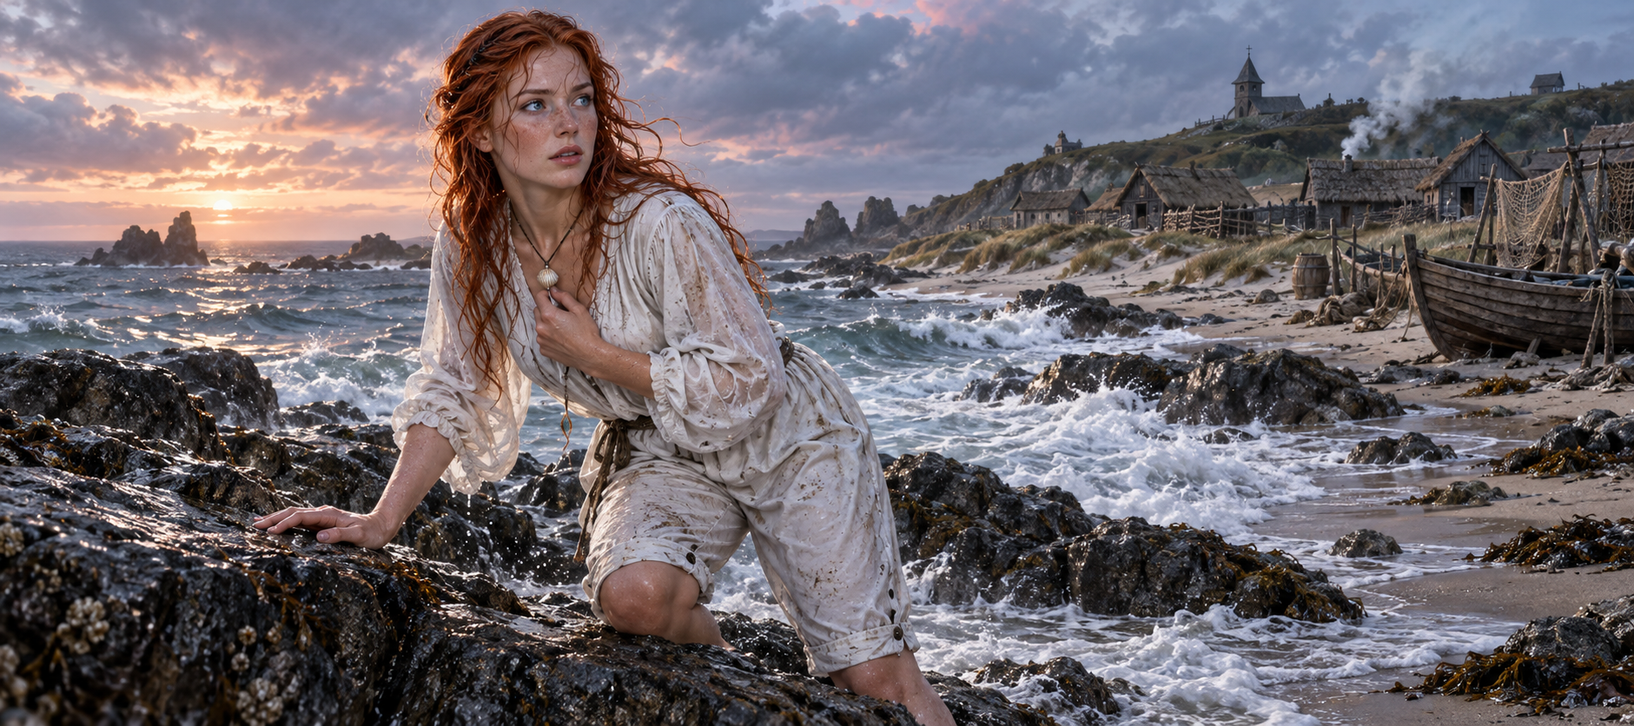
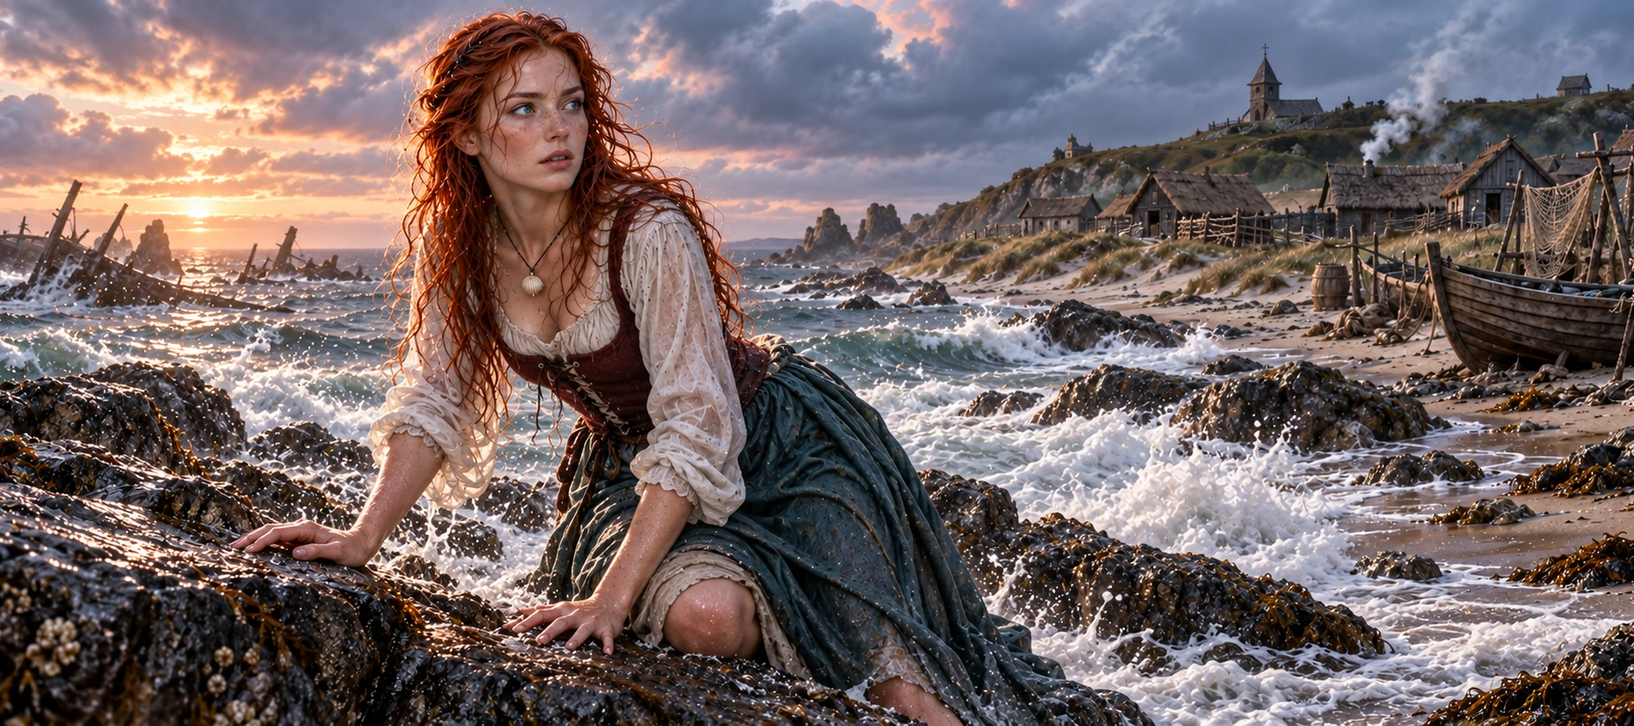
옛이야기 아가씨들 능력 조정 · 인어공주는 말을 익히기 전까지 몸짓으로만 · 이성 부하에게 선물하면 충성도 오른다 · 인어공주·백설공주 새 그림
- 인어공주: 음악·항해술·측량·운용술 3, 세공 1. 사람의 말을 하나도 모른다(언어 없음)
  · 한배 사람들에게서 어느 말이든 「기초」를 익히기 전까지(제독의 말 90일, js/systems/cabins.js) 대화창의 그녀 말은 모두 몸짓으로:
    「(두 손을 모아 가슴에 얹고, 당신을 향해 고개를 깊이 숙인다.)」 + 흐리게 「손짓으로 미루어 보면 — 「…」」 (G.Tale.mime — 고마움·사과·사랑·슬픔·거절·먹을 것·노래·바다·물음·놀람 몸짓 10가지 + 그 밖 5가지)
  · 처음 말을 익힌 날 알림: 「한배 사람들에게서 ○○어를 익혀 처음으로 말을 했다 — 「제…독…님.」」 (s.fairy.spoke) · 그 뒤로 수다에도 낀다
  · 설명·합류 장면·소문을 새 능력에 맞게 (요리 → 조개 하프와 춤, 말은 손짓 발짓으로)
- 백설공주: 요리·세공·음악·웅변·회계 3 (설명에 보석 다듬기·장부 셈·노래·말솜씨)
- 셰헤라자드: 웅변·회계·과학 3 (역사학 2·음악 1·그림 1은 그대로), 유럽·아시아의 말 모두 2~3
  (스페인·포르투갈·게르만 2, 로망스·슬라브·그리스 3 / 아랍·페르시아·힌두·위굴 3, 중국·동남아·동아시아·조선 2, 아프리카 3)
- 세 사람은 정해 준 능력 그대로 (skBoost — js/data/renown.js가 얹지 않게)
- 부하와 이야기 「선물한다」: 제독과 다른 성(이성) 부하면 충성이 선물 값만큼 오른다 (리본 +3 · 향수 +5 · 머리장식 +7 · 케이프 +8 · 진주 목걸이 +12,
  BALANCE.mateTalk.giftLoyal 0.6 · giftLoyalMin 3), 같은 성이면 예전처럼 +2. 여자 제독은 남자 부하에게도 선물할 수 있다. 충성·호감 오른 만큼 알림
- 그림: 인어공주(다리)·백설공주 얼굴상·무릎상과 합류 장면 그림을 마지막 판으로 (2026-10-18) — 얼굴 자리(portraitfaces) 다시 잼
- 시험: 새 fairytale_mermaid_gift_smoke 15건, legends_smoke(셰헤라자드 말 2~3), fairytales·banter·romance 통과, 콘솔 오류 0

Claude-Session: https://claude.ai/code/session_015rrc6RzdPZTKSNbraxgg81

diff --git a/js/systems/fairytales.js b/js/systems/fairytales.js
@@ -31,6 +31,50 @@
   function cool(id) { st().cool[id] = S().day + (K().coolDays || 45); }
   function who(id, emo) { return G.Legend && G.Legend.speaker ? G.Legend.speaker(id, emo) : { name: G.MATE[id].name, portrait: G.Art.mateSpec(id), half: G.Img.chain.mateHalf(id), lang: 3, special: true }; }
   T.speaker = who;
+
+  // ---------------------------------------------------------------- 인어공주의 몸짓 말
+  // 사람의 말을 하나도 모르고 배에 오른다(lg 없음). 한배 사람들에게서 어느 말이든 「기초」를 익히기 전까지(js/systems/cabins.js — 제독의 말은 90일)
+  // 그녀가 하는 말은 대화창에서 모두 몸짓으로 바뀐다 (ui.js speech → T.mime). 괄호로 쓴 줄은 이미 몸짓이라 그대로 둔다.
+  var MERMAID = 'little_mermaid';
+  /** 인어공주가 아직 말을 못 하는가 */
+  T.mute = function () {
+    var d = G.MATE[MERMAID], s = S(); if (!d || !s) return false;
+    if (st().spoke && st().spoke[MERMAID]) return false;         // 처음 말을 한 뒤로는 (혼인해 집에 있어도) 말을 한다
+    var m = row(MERMAID); if (!m) return true;
+    for (var li = 0; li < G.LANGS.length; li++) if (R.mateLang(m, li) >= 1) return false;
+    return true;
+  };
+  var GESTURE = [
+    [/고마|감사/, '두 손을 모아 가슴에 얹고, 당신을 향해 고개를 깊이 숙인다.'],
+    [/미안|죄송|잘못/, '어깨를 움츠리고 눈을 내리깐 채, 두 손을 모아 싹싹 비는 시늉을 한다.'],
+    [/사랑|좋아해|좋아요|곁에|함께/, '볼을 붉히며 당신의 손을 살며시 잡아 제 가슴께로 가져간다.'],
+    [/슬프|울|그리워|보고 싶|외로/, '눈시울이 붉어진 채 먼바다 쪽을 오래 바라보다가, 제 가슴을 가만히 누른다.'],
+    [/싫|안 돼|안돼|아니|그만/, '입술을 꼭 다물고 고개를 세차게 젓는다. 두 팔로 X 자를 그려 보인다.'],
+    [/먹|배고|요리|맛|술|잔/, '배를 문지르고, 무언가를 입에 넣는 시늉을 하며 눈을 동그랗게 뜬다.'],
+    [/노래|음악|춤|하프|악기/, '입술을 달싹이다 소리가 나지 않자, 대신 손끝으로 박자를 짚으며 빙그르르 돈다.'],
+    [/바다|파도|바람|배|돛|물살|키|항구|섬/, '바다 쪽을 가리키고, 손바닥을 물결처럼 너울너울 흔들어 보인다.'],
+    [/\?/, '고개를 갸웃하며 당신 얼굴을 빤히 들여다본다.'],
+    [/!/, '눈을 반짝이며 손뼉을 치고 발끝으로 콩콩 뛴다.']
+  ];
+  var GESTURE_ANY = ['당신을 바라보며 말없이 고개를 끄덕인다.', '입술을 달싹이다 소리가 나지 않자, 손짓 발짓으로 무언가를 열심히 그려 보인다.',
+    '당신의 소매를 살짝 잡아당기고는 방긋 웃는다.', '손가락으로 허공에 무언가를 그리며 몇 번이고 고개를 끄덕인다.', '제 목을 가리키고 미안한 듯 웃더니, 두 손으로 뜻을 그려 보인다.'];
+  /** 대화창에 그녀의 말이 나오려 할 때: 아직 말을 못 하면 몸짓(과 손짓으로 짐작한 뜻)을 HTML로 돌려준다. 다른 사람이면 null */
+  T.mime = function (raw, opts) {
+    var d = G.MATE[MERMAID]; if (!d || !opts || !(opts.name === d.name || opts.mateId === MERMAID)) return null;
+    var t = String(raw == null ? '' : raw).replace(/<[^>]+>/g, '').trim();
+    if (!t || /^[(（]/.test(t) || !T.mute()) return null;
+    var g = null; for (var i = 0; i < GESTURE.length && !g; i++) if (GESTURE[i][0].test(t)) g = GESTURE[i][1];
+    if (!g) g = GESTURE_ANY[Math.abs(U.strHash(t)) % GESTURE_ANY.length];
+    var gist = (t.match(/^[^.!?…。]*[.!?…。]?/) || [t])[0].trim(); if (gist.length > 40) gist = gist.slice(0, 38) + '…';
+    return '<span class="mime">(' + U.esc(g) + ')</span><span class="mime-gist">손짓으로 미루어 보면 — 「' + U.esc(gist) + '」</span>';
+  };
+  /** 한배 사람들에게서 처음으로 말을 익힌 날 (cabins.js가 그 말을 익히기 직전에 부른다) — 알림 하나, 다른 때는 null */
+  T.firstWords = function (m, li) {
+    if (!m || m.id !== MERMAID || !T.mute()) return null;
+    var F = st(); F.spoke = F.spoke || {}; F.spoke[MERMAID] = U.dateNum(S().date);
+    var nm = G.MATE[MERMAID].name;
+    return { icon: 'heart', text: nm + U.j(nm, '이/가').slice(nm.length) + ' 한배 사람들에게서 ' + G.LANGS[li] + '를 익혀 처음으로 말을 했다 — 「제…독…님.」 이제 손짓 대신 말로 이야기를 나눌 수 있다.' };
+  };
   function me() { var p = S().player; return { name: p.name, portrait: p.portrait, rigId: 'player' }; }
   function say(id, text, emo) { return UI.say(text, who(id, emo)); }
   function narrate(text) { return UI.say(text, {}); }
@@ -187,7 +231,7 @@
         cool(id); return false;
       }
       await T.join(id);
-      await narrate('배에 오르자 그녀의 걸음이 거짓말처럼 가벼워진다. 출렁이는 갑판 위가 뭍보다 편한 모양이다. 그날 저녁, 그녀가 말없이 차린 생선 요리에 선원들이 혀를 내둘렀다.');
+      await narrate('배에 오르자 그녀의 걸음이 거짓말처럼 가벼워진다. 출렁이는 갑판 위가 뭍보다 편한 모양이다. 그날 저녁, 그녀가 말없이 조개 하프를 뜯으며 갑판 위에서 춤을 추자 선원들이 숨을 죽였다. 사람의 말은 한마디도 모르는 모양이라, 무엇이든 손짓과 몸짓으로 전한다.');
       await say(id, '(활짝 웃으며 키를 가리킨다. 바람이 바뀌는 쪽을 먼저 알아채는 눈치다.)', 'happy');
       return true;
     } finally { if (pc) await pc.stop(); }
@@ -229,7 +273,7 @@
     if (o === '프랑스' && T.ready('cinderella')) await hint('cin', '요즘 이 근처 숲에 재투성이 아가씨가 깨진 유리 구두를 들고 앉아 운다더군. 유리를 다룰 줄 아는 사람을 찾는다나. 유리야 시장에서 팔지만, 그걸 구두로 만드는 솜씨가 문제지.');
     else if (o === '프랑스' && T.ready('snow_white')) await hint('snow', '숲에 들어갈 거면 조심하게. 왕비의 사냥꾼이 웬 아가씨를 쫓아다닌다더군. 그 아가씨는 일곱 사내가 사는 오두막을 찾는다던데… 사내 일곱이 함께 다니는 무리라면 반가워할지도.');
     if (GERMAN[o] && T.ready('sleeping_beauty')) await hint('beauty', '이 고장 숲 깊은 곳에 가시덤불로 뒤덮인 탑이 있다네. 용을 본 사람 앞에서만 덤불이 길을 연다는 옛말이 있지. 그 안에 잠든 공주가 다쳐 있다는데, 의원 없이 가 봐야 소용없다더군.');
-    if (o === '덴마크' && T.ready('little_mermaid')) await hint('mermaid', '섬에서 사냥하다 보면 물가에서 걸음마 하듯 걷는 아가씨를 본다는 사람들이 있어. 말은 한마디도 못 하는데, 바다 일은 늙은 뱃사람보다 잘 안다더군.');
+    if (o === '덴마크' && T.ready('little_mermaid')) await hint('mermaid', '섬에서 사냥하다 보면 물가에서 걸음마 하듯 걷는 아가씨를 본다는 사람들이 있어. 말은 한마디도 못 해서 손짓 발짓으로만 뜻을 전하는데, 바다 일은 늙은 뱃사람보다 잘 안다더군.');
   };
   T.install = function () {
     var CC = G.Scenes && G.Scenes.city, B = CC && CC.B; if (!B || !B.tavern || T._inst) return;

diff --git a/tests/fairytale_mermaid_gift_smoke.js b/tests/fairytale_mermaid_gift_smoke.js
@@ -1,0 +1,71 @@
+/* 인어공주의 몸짓 말 · 처음 말을 익힌 날 · 옛이야기 아가씨들 능력 · 이성 부하 선물 = 충성 — node tests/fairytale_mermaid_gift_smoke.js */
+const path = require('path');
+const { pathToFileURL } = require('url');
+const { chromium } = require('playwright');
+const ROOT = path.resolve(__dirname, '..');
+
+(async () => {
+  const browser = await chromium.launch({ executablePath: process.env.BROWSER_EXE || undefined, args: ['--use-gl=swiftshader', '--no-sandbox', '--enable-unsafe-swiftshader', '--allow-file-access-from-files'] });
+  const page = await browser.newPage({ viewport: { width: 1280, height: 720 } });
+  const errors = [];
+  page.on('pageerror', e => errors.push('PAGEERR ' + e.message));
+  page.on('console', m => { if (m.type() === 'error' && !/Failed to load|net::|fonts|ERR_FILE/.test(m.text())) errors.push('CONSOLE ' + m.text()); });
+  await page.goto(pathToFileURL(path.join(ROOT, 'index.html')).href);
+  await page.waitForFunction(() => window.G && G.Game && G.Tale && G.MateTalk && G.Cabins, null, { timeout: 90000 });
+  const out = await page.evaluate(async () => {
+    const rows = []; const ok = (v, s) => rows.push((v ? '✓ ' : '✗ ') + s);
+    const sleep = (ms) => new Promise(r => setTimeout(r, ms));
+    G.State.newGame({ name: '선물 시험', nation: 'PT', job: 'explorer', age: 24, birth: { m: 1, d: 1 }, st: { str: 60, int: 62, mar: 58, cha: 64 }, sk: {}, lg: [], diff: 'normal' });
+    const s = G.Game.state, R = G.R, MM = G.MATE.little_mermaid, SW = G.MATE.snow_white, SH = G.MATE.scheherazade;
+    // 능력
+    rows.push('  능력 ' + ['MM','SW','SH'].map(k => JSON.stringify({MM,SW,SH}[k].sk)).join(' / '));
+    ok(MM.sk.music === 3 && MM.sk.nav === 3 && MM.sk.survey === 3 && MM.sk.ops === 3 && MM.sk.craft === 1 && !(MM.sk.cook > 0) && !Object.keys(MM.lg).some(k => MM.lg[k] > 0), '인어공주: 음악·항해·측량·운용 3, 세공 1, 말 없음');
+    ok(['cook', 'craft', 'music', 'speech', 'acct'].every(k => SW.sk[k] === 3), '백설공주: 요리·세공·음악·웅변·회계 3');
+    const eu = [0, 1, 2, 3, 4], as = [5, 6, 7, 8, 9, 12, 13, 14];
+    ok(eu.concat(as).every(i => SH.lg[i] >= 2 && SH.lg[i] <= 3) && ['speech', 'acct', 'sci'].every(k => SH.sk[k] === 3), '셰헤라자드: 유럽·아시아 말 모두 2~3, 웅변·회계·과학 3');
+    // 몸짓 말
+    const m = G.Legend.join('little_mermaid', null);
+    ok(!!m && G.Tale.mute(), '인어공주가 배에 올랐고 아직 말을 못 한다');
+    const say = async (text, who) => { const p = G.UI.say(text, who); await sleep(80); const b = document.querySelector('.dlg .body'); const r = { html: b ? b.innerHTML : '', text: b ? b.innerText : '' }; document.querySelector('.modal-back').click(); await sleep(260); document.querySelector('.modal-back') && document.querySelector('.modal-back').click(); await p; return r; };
+    const r1 = await say('고마워요, 제독! 정말 기뻐요.', G.Tale.speaker('little_mermaid'));
+    ok(/class="mime"/.test(r1.html) && /두 손을 모아/.test(r1.text) && /손짓으로 미루어 보면/.test(r1.text), '말을 못 하면 대사가 몸짓으로: ' + r1.text.replace(/\n/g, ' / '));
+    const r2 = await say('또 무슨 이야기를 할까요?', G.Scenes.mateSpeaker(m.role));   // 이름만 있는 화자(부하와 이야기 등)
+    ok(/갸웃/.test(r2.text), '부하 화자로 물어도 몸짓 (' + r2.text.replace(/\n/g, ' / ') + ')');
+    const r3 = await say('(바다를 가리키고 웃는다.)', G.Tale.speaker('little_mermaid'));
+    ok(!/mime/.test(r3.html) && /바다를 가리키고/.test(r3.text), '이미 몸짓으로 쓴 줄은 그대로');
+    const r4 = await say('고마워요.', G.Tale.speaker('snow_white'));
+    ok(!/mime/.test(r4.html), '다른 사람의 말은 그대로');
+    // 한배 사람들에게서 말을 익힌다 (제독의 말 90일)
+    let first = null, days = 0;
+    for (; days < 120 && G.Tale.mute(); days++) { const o = G.Cabins.daily(); const f = o.find(x => /처음으로 말을/.test(x.text)); if (f) first = f.text; }
+    ok(!!first && !G.Tale.mute() && days >= 85 && days <= 95, days + '일 만에 처음 말을 했다: ' + first);
+    const r5 = await say('고마워요, 제독!', G.Tale.speaker('little_mermaid'));
+    ok(!/mime/.test(r5.html) && /고마워요, 제독/.test(r5.text), '말을 익힌 뒤에는 말로');
+    // 선물: 이성 부하는 충성이 선물 값만큼
+    const gift = async (mate, itemId) => {
+      s.player.items.push({ id: itemId });
+      const seq = ['gift', null]; const ask0 = G.UI.ask, ch0 = G.UI.choose, say0 = G.UI.say;
+      let shown = null;
+      G.UI.ask = async (t, opts) => { if (shown == null) shown = opts.map(o => o && o.label).filter(Boolean); const v = seq.length ? seq.shift() : null; return v === 'gift' && shown.indexOf('선물한다') < 0 ? null : v; };
+      G.UI.choose = async () => 0; G.UI.say = async () => {};
+      const lo0 = mate.loyal; try { await G.MateTalk.talk(G.CITY_DATA[0], mate); } finally { G.UI.ask = ask0; G.UI.choose = ch0; G.UI.say = say0; }
+      return { d: mate.loyal - lo0, shown };
+    };
+    m.loyal = 60; const g1 = await gift(m, 'perfume');
+    ok(g1.d === 5, '남자 제독 → 여성 부하에게 향수: 충성 +' + g1.d + ' (예전 +2)');
+    const male = G.MATES.find(x => x.g !== 'f' && x.fame >= 0 && !s.mates.some(y => y.id === x.id));
+    const mm = G.Legend.join(male.id, null); mm.loyal = 60;
+    const g2 = await gift(mm, 'pearlnk');
+    ok(g2.d === 0 && g2.shown.indexOf('선물한다') < 0, '남자 제독 → 남자 부하: 선물 고르는 줄 없음');
+    s.player.g = 'f'; s.player.items = s.player.items.filter(it => it.id !== 'pearlnk');
+    const g3 = await gift(mm, 'pearlnk');
+    ok(g3.d === 12 && g3.shown.indexOf('선물한다') >= 0, '여자 제독 → 남자 부하(' + male.name + ')에게 진주 목걸이: 충성 +' + g3.d);
+    m.loyal = 60; const g4 = await gift(m, 'ribbon');
+    ok(g4.d === 2, '여자 제독 → 여성 부하(같은 성): 예전처럼 +2');
+    return rows;
+  });
+  console.log(out.join('\n'));
+  console.log(errors.slice(0, 8).join('\n') || '✓ 콘솔 오류 없음');
+  await browser.close();
+  process.exitCode = out.some(x => x[0] === '✗') || errors.length ? 1 : 0;
+})().catch(e => { console.error(e); process.exit(1); });

diff --git a/js/data/fairytales.js b/js/data/fairytales.js
@@ -2,7 +2,8 @@
    · 신데렐라: 유리를 싣고, 세공에 밝은 사람(제독이나 부하)을 데리고 프랑스 도시 근처 숲을 돌아다니면 만난다 — 유리 한 통으로 유리 구두를 지어 주면 합류
    · 백설공주: 부하가 남자만 꼭 여섯 명일 때(제독까지 일곱) 프랑스 도시 근처 숲을 돌아다니면 사냥꾼에게 쫓기는 그녀를 만난다 — 일기토로 구하면 합류
    · 잠자는 숲속의 공주: 의학에 밝은 사람이 있고 용·드래곤을 찾은 뒤 독일 숲에서 야영하면 — 깨우고, 물레 가락에 찔린 상처를 치료하면 「운명」이라며 합류
-   · 인어공주: 덴마크의 섬에 상륙해 사냥하면 걸음이 서툰 그녀를 만난다 — 말을 못 하지만 항해·측량·요리에 밝다. 돌보기로 하면 합류
+   · 인어공주: 덴마크의 섬에 상륙해 사냥하면 걸음이 서툰 그녀를 만난다 — 음악·항해·측량·운용에 밝고 세공을 조금 한다. 돌보기로 하면 합류
+     사람의 말을 하나도 모른다(lg 없음): 한배 사람들에게서 말을 익히기 전에는(js/systems/cabins.js) 하는 말이 모두 몸짓으로 나온다 (G.Tale.mime)
    네 사람 모두 품삯을 받지 않는다(wage 0). 넷을 모두 들이면 업적 「Once Upon a Time」, 넷 모두와 혼인하면 「Happily Ever After」.
    그림: images/portraits/legendary/<그림>.webp (흉상) · _half.webp (무릎상) — Codex. 인어공주는 다리가 생긴 모습(little_mermaid_legs). */
 (function (G) {
@@ -12,14 +13,14 @@
       st: [46, 68, 40, 92], sk: { cook: 2, ops: 2, music: 1 }, lg: { 2: 3, 3: 1 },
       desc: '재투성이라 불리며 새어머니와 언니들의 집안일을 도맡던 아가씨. 부엌일과 살림에 빈틈이 없고, 누구에게도 모진 말을 하지 않는다. 무도회 옷을 입은 채 숲에서 만난 그날의 유리 구두 한 켤레를 소중히 간직한다.' },
     { id: 'snow_white', name: '백설공주', g: 'f', style: 'ne', role: 'noble', tone: 'cute', pic: 'snow_white',
-      st: [42, 70, 38, 95], sk: { cook: 2, med: 1, sci: 1 }, lg: { 3: 3, 2: 2 },
-      desc: '눈처럼 흰 살결과 흑단 같은 머리의 공주. 새어머니의 사냥꾼에게 쫓겨 숲으로 달아났다. 일곱 사내와 한 지붕 아래 사는 데 익숙해, 사내들 틈에서도 금세 살림을 쥐고 모두를 부린다.' },
+      st: [42, 70, 38, 95], sk: { cook: 3, craft: 3, music: 3, speech: 3, acct: 3 }, skBoost: 1, lg: { 3: 3, 2: 2 },
+      desc: '눈처럼 흰 살결과 흑단 같은 머리의 공주. 새어머니의 사냥꾼에게 쫓겨 숲으로 달아났다. 일곱 사내와 한 지붕 아래 사는 데 익숙해, 사내들 틈에서도 금세 살림을 쥐고 야무진 말솜씨로 모두를 부린다. 광부 일곱의 오두막에서 보석 다듬는 법과 장부 셈을 배웠고, 숲의 새들과 함께 부르는 노래는 사나운 뱃사람도 잠잠하게 한다.' },
     { id: 'sleeping_beauty', name: '잠자는 숲속의 공주', short: '들장미 공주', g: 'f', style: 'ne', role: 'noble', tone: 'plain', pic: 'sleeping_beauty',
       st: [40, 76, 36, 94], sk: { music: 2, art: 2, hist: 1 }, lg: { 3: 3, 2: 3, 0: 1 },
       desc: '물레 가락에 찔려 백 년을 잠들었다는 숲속 성의 공주. 깨어난 세상은 그녀가 알던 세상보다 백 년쯤 늙어 있었다. 요정들의 축복으로 노래와 그림에 뛰어나고, 옛 왕가의 일을 누구보다 잘 안다.' },
     { id: 'little_mermaid', name: '인어공주', g: 'f', style: 'ne', role: 'maid', tone: 'cute', pic: 'little_mermaid_legs', mute: true,
-      st: [50, 72, 44, 96], sk: { nav: 3, survey: 2, cook: 2 }, lg: {},
-      desc: '바다 마녀에게 목소리를 주고 다리를 얻은 바다 왕의 막내딸. 말을 하지 못하고 뭍의 걸음은 아직 서툴지만, 물살과 바람과 바닷속 지형은 누구보다 잘 안다. 바다 것으로 차린 요리 솜씨도 일품이다.' }
+      st: [50, 72, 44, 96], sk: { music: 3, nav: 3, survey: 3, ops: 3, craft: 1 }, skBoost: 1, lg: {},
+      desc: '바다 마녀에게 목소리를 주고 다리를 얻은 바다 왕의 막내딸. 말을 하지 못하고 뭍의 걸음은 아직 서툴지만, 물살과 바람과 바닷속 지형은 누구보다 잘 알고, 밧줄과 돛을 다루는 손이 빠르다. 목소리는 잃었어도 조개 하프를 뜯고 춤을 추면 선원들이 넋을 잃고, 산호와 조개로 작은 장신구를 엮는다. 사람의 말은 한마디도 모른다 — 한배 사람들에게서 말을 배우기 전까지는 손짓과 몸짓으로만 뜻을 전한다.' }
   ];
   G.FAIRY = L.map(function (m) { return m.id; });
   L.forEach(function (m) {

diff --git a/js/city/matetalk.js b/js/city/matetalk.js
@@ -1,6 +1,6 @@
 /* 부하와 이야기 — 술집·여관의 「부하와 이야기」 (G.MateTalk)
    · 데리고 다니는 부하 한 사람과 마주 앉는다: 요즘 이야기(하루 한 번 충성↑), 살아온 이야기(실존 인물은 인물 이야기, 철새는 제 이야기),
-     한잔 사기(하루 한 번), 여성 부하에게는 선물과 청혼, 마녀에게는 점괘.
+     한잔 사기(하루 한 번), 이성 부하에게는 선물(충성이 선물 값만큼 오른다 — BALANCE.mateTalk.giftLoyal), 여성 부하에게는 청혼, 마녀에게는 점괘.
    · 여성 부하의 호감: s.mates[i].aff (0~100). 호감이 BALANCE.mateTalk.wedAff 이상이고 약속 반지가 있으면 청혼할 수 있다.
      결혼하면 부하에서 물러나 고향 자택에서 기다린다 (s.player.wife = 그 항해사 ID — family.js가 여급과 똑같이 다룬다). */
 (function (G) {
@@ -90,7 +90,9 @@
       var opts = [{ label: '요즘 어떤가', value: 'chat' }, { label: '살아온 이야기', value: 'life' }, { label: '한잔 산다', value: 'drink' }];
       if (d.witch) opts.push({ label: '점괘를 본다', value: 'fortune' });
       var w2 = G.Wives && G.Wives.of(d.id);     // 둘째 부인으로 함께 다니는 사람 (js/systems/wives.js)
-      if (f) opts.push({ label: '선물한다', value: 'gift' }, w2 ? { label: '집으로 보낸다', value: 'w2home' } : { label: '청혼한다', value: 'wed', dis: !((m.aff || 0) >= (cf.wedAff || 90)) });
+      var opp = (d.g === 'f') !== (s.player.g === 'f');      // 제독과 다른 성(이성)
+      if (f || opp) opts.push({ label: '선물한다', value: 'gift' });
+      if (f) opts.push(w2 ? { label: '집으로 보낸다', value: 'w2home' } : { label: '청혼한다', value: 'wed', dis: !((m.aff || 0) >= (cf.wedAff || 90)) });
       opts.push({ label: '그만둔다', value: null });
       var v = await ask(turn++ ? U.pick(f ? ['또 무슨 이야기를 할까요?', '더 하실 말씀 있으세요?', '다른 건요, 제독?'] : ['또 무슨 이야기를 할까?', '더 할 말이 있소?', '다른 용건은 없소, 제독?']) : greet(d, m, f), opts);
       if (!v) return;
@@ -130,10 +132,14 @@
         if (!gifts.length) { UI.toast('선물할 장신구가 없습니다. 시장에서 살 수 있습니다.', 'info'); continue; }
         var gi = await UI.choose('선물', gifts.map(function (it, i) { return { label: G.ITEM[it.id].name, right: '♥' + G.ITEM[it.id].gv, value: i, icon: 'heart', thumb: G.Img.itemSrc(it) }; }), { width: 460 });
         if (gi == null) continue;
-        var it = gifts[gi]; R.removeItemObject(it);
-        gainAff(G.ITEM[it.id].gv + R.skill('craft'));
-        m.loyal = Math.min(100, (m.loyal || 70) + 2);
-        await say(U.pick(['어머, 이걸 저에게요? 소중히 할게요.', '배 위에서 이런 선물을 받을 줄은 몰랐어요. 고마워요.']), 'happy');
+        var it = gifts[gi], gv = G.ITEM[it.id].gv; R.removeItemObject(it);
+        var af0 = m.aff || 0, lo0 = m.loyal || 70;
+        gainAff(gv + R.skill('craft'));
+        // 이성 부하: 선물 값만큼 충성도 오른다 (리본 +3 · 향수 +5 · 머리장식 +7 · 케이프 +8 · 진주 목걸이 +12), 같은 성이면 예전처럼 +2
+        var gl = opp ? Math.max(cf.giftLoyalMin || 3, Math.round(gv * (cf.giftLoyal == null ? 0.6 : cf.giftLoyal))) : 2;
+        m.loyal = Math.min(100, lo0 + gl);
+        UI.toast(d.name + ' — 충성 +' + (m.loyal - lo0) + (f ? ' · 호감 +' + ((m.aff || 0) - af0) : ''), 'heart', 3200);
+        await say(U.pick(f ? ['어머, 이걸 저에게요? 소중히 할게요.', '배 위에서 이런 선물을 받을 줄은 몰랐어요. 고마워요.'] : ['이걸 내게? …고맙소, 제독. 이 은혜는 잊지 않겠소.', '선물이라니, 제독도 참. …소중히 간직하겠소.']), 'happy');
       } else if (v === 'w2home') {
         var wv = G.Wives.of(d.id), here = s.loc.mode === 'city' && s.loc.city === wv.city;
         var okH = await UI.confirm(d.name + U.jx(d.name, '을/를') + ' ' + G.CITY_DATA[wv.city].name + '의 집으로 보낼까요?<br><small class="muted">' + (here ? '여기서 배에서 내려 그 집에서 삽니다.' : '혼자 먼저 가서 그 집에서 기다립니다.') + ' 그 집에서 다시 배에 태울 수 있습니다.</small>', '보낸다', '그만둔다');

diff --git a/js/data/portraitfaces.js b/js/data/portraitfaces.js
@@ -537,8 +537,8 @@
     "portraits/legendary/konishi_yukinaga_half": {"box":[0.4111,0.0827,0.1923,0.1595],"eyes":[0.4948,0.1373,0.573,0.1377],"mouth":[0.5318,0.1967]},
     "portraits/legendary/lee_mongryong": {"box":[0.3306,0.2434,0.3345,0.4644],"eyes":[0.3787,0.4268,0.511,0.413],"mouth":[0.4698,0.5883]},
     "portraits/legendary/lee_mongryong_half": {"box":[0.4047,0.1132,0.1579,0.1347],"eyes":[0.4192,0.1597,0.4944,0.1586],"mouth":[0.4647,0.2112]},
-    "portraits/legendary/little_mermaid_legs": {"box":[0.3933,0.1511,0.3069,0.3678],"eyes":[0.4833,0.2821,0.6137,0.3339],"mouth":[0.4909,0.4343]},
-    "portraits/legendary/little_mermaid_legs_half": {"box":[0.4314,0.0728,0.2019,0.1683],"eyes":[0.4823,0.1398,0.5661,0.1414],"mouth":[0.5245,0.1938]},
+    "portraits/legendary/little_mermaid_legs": {"box":[0.4622,0.0818,0.1515,0.1935],"eyes":[0.5305,0.1622,0.5853,0.1634],"mouth":[0.5533,0.2304]},
+    "portraits/legendary/little_mermaid_legs_half": {"box":[0.4661,0.0564,0.1396,0.1328],"eyes":[0.5313,0.1066,0.5862,0.107],"mouth":[0.556,0.1547]},
     "portraits/legendary/liu_bei": {"box":[0.3897,0.1136,0.1825,0.2327],"eyes":[0.4559,0.197,0.5419,0.1931],"mouth":[0.5014,0.2867]},
     "portraits/legendary/liu_bei_half": {"box":[0.3952,0.0705,0.1547,0.1272],"eyes":[0.46,0.113,0.5261,0.1123],"mouth":[0.4929,0.1612]},
     "portraits/legendary/luo_guanzhong": {"box":[0.3264,0.2436,0.3679,0.4894],"eyes":[0.4763,0.4209,0.6252,0.3997],"mouth":[0.5704,0.5946]},
@@ -583,8 +583,8 @@
     "portraits/legendary/sinbad_half": {"box":[0.4097,0.0482,0.1594,0.1341],"eyes":[0.4745,0.0983,0.5444,0.0993],"mouth":[0.5083,0.1475]},
     "portraits/legendary/sleeping_beauty": {"box":[0.365,0.1529,0.2376,0.303],"eyes":[0.4349,0.3005,0.5351,0.2769],"mouth":[0.5125,0.3909]},
     "portraits/legendary/sleeping_beauty_half": {"box":[0.4101,0.0753,0.1771,0.1439],"eyes":[0.4643,0.1325,0.5325,0.1317],"mouth":[0.5081,0.1833]},
-    "portraits/legendary/snow_white": {"box":[0.3333,0.148,0.2594,0.3133],"eyes":[0.4056,0.3029,0.5058,0.2684],"mouth":[0.4977,0.3912]},
-    "portraits/legendary/snow_white_half": {"box":[0.3877,0.0684,0.1695,0.1324],"eyes":[0.423,0.1202,0.4963,0.1176],"mouth":[0.4729,0.1661]},
+    "portraits/legendary/snow_white": {"box":[0.4688,0.1298,0.1917,0.1979],"eyes":[0.541,0.2012,0.6191,0.2121],"mouth":[0.5637,0.2807]},
+    "portraits/legendary/snow_white_half": {"box":[0.458,0.0809,0.2035,0.1339],"eyes":[0.5287,0.1374,0.6098,0.1395],"mouth":[0.5645,0.1843]},
     "portraits/legendary/suppression_commander": {"box":[0.3248,0.1907,0.358,0.472],"eyes":[0.4612,0.3608,0.6104,0.3455],"mouth":[0.5513,0.5344]},
     "portraits/legendary/suppression_commander_half": {"box":[0.407,0.0982,0.1541,0.1214],"eyes":[0.4638,0.1355,0.5327,0.1349],"mouth":[0.5003,0.1834]},
     "portraits/legendary/taejong": {"box":[0.4133,0.1524,0.1896,0.2365],"eyes":[0.4829,0.2362,0.5712,0.2334],"mouth":[0.5285,0.322]},

diff --git a/js/data/legends.js b/js/data/legends.js
@@ -29,9 +29,10 @@
       desc: '삼총사 가운데 가장 크고 힘센 사내. 금실 어깨띠와 깃털 모자를 자랑하고 잘 먹고 잘 웃는다. 그의 팔 힘이면 돛대 하나쯤은 혼자 세운다.' },
     { id: 'aramis', name: '아라미스', g: 'm', style: 'ne', tone: 'hidden', st: [66, 82, 87, 86], sk: { sword: 3, theo: 2, speech: 1 }, lg: { 2: 3, 0: 1, 4: 1 }, wage: 150,
       desc: '언젠가 사제가 되겠다며 기도서를 품고 다니는 총사. 부드러운 말씨와 고운 손 아래 누구보다 날랜 칼솜씨를 감추고 있다.' },
-    { id: 'scheherazade', name: '셰헤라자드', g: 'f', style: 'is', role: 'scholar', tone: 'charm', st: [44, 97, 30, 98], sk: { speech: 3, hist: 2, music: 1, art: 1 },
-      lg: langs(EU, { 5: 3, 6: 3, 10: 3 }), wage: 180,
-      desc: '천 하루 밤 동안 이야기를 이어 목숨을 건진 이야기꾼. 유럽의 여러 말과 아랍어·페르시아어, 아프리카의 말까지 막힘없이 옮긴다. 이야기가 끝나는 곳에서 늘 다음 이야기가 시작된다.' },
+    { id: 'scheherazade', name: '셰헤라자드', g: 'f', style: 'is', role: 'scholar', tone: 'charm', st: [44, 97, 30, 98], sk: { speech: 3, acct: 3, sci: 3, hist: 2, music: 1, art: 1 }, skBoost: 1,
+      // 유럽·아시아의 말 모두 2~3: 스페인·포르투갈·게르만 2, 로망스·슬라브·그리스 3 / 아랍·페르시아·힌두·위굴 3, 중국·동남아·동아시아·조선 2 (+ 아프리카 3)
+      lg: { 0: 2, 1: 2, 2: 3, 3: 2, 4: 3, 5: 3, 6: 3, 7: 2, 8: 3, 9: 3, 10: 3, 12: 2, 13: 2, 14: 2 }, wage: 180,
+      desc: '천 하루 밤 동안 이야기를 이어 목숨을 건진 이야기꾼. 유럽의 여러 말과 아랍어·페르시아어, 아프리카의 말까지 막힘없이 옮기고, 인도와 중국, 먼 동쪽 나라의 말도 제법 한다. 바그다드 지혜의 집에서 별과 셈을 배워 별자리와 장부에도 밝다. 이야기가 끝나는 곳에서 늘 다음 이야기가 시작된다.' },
     { id: 'aladdin', name: '알라딘', g: 'm', style: 'is', tone: 'shonen', st: [70, 66, 60, 88], sk: { speech: 2, acct: 2, nav: 1 }, lg: { 5: 3, 6: 2, 4: 1 }, wage: 130,
       desc: '바그다드 뒷골목에서 자란 재빠른 젊은이. 허리춤의 낡은 놋쇠 램프를 아무에게도 만지게 하지 않는다. 문지르면 무엇이 나오는지는 묻지 않는 게 좋다.' },
     { id: 'ali_baba', name: '알리바바', g: 'm', style: 'is', tone: 'merch', st: [76, 64, 58, 72], sk: { acct: 3, ops: 1, craft: 1 }, lg: { 5: 3, 6: 1 }, wage: 130,

diff --git a/js/systems/legends.js b/js/systems/legends.js
@@ -229,7 +229,7 @@
     try {
       await UI.say('다섯 번째 책을 덮자, 맞은편 서가 그늘에서 비단 너울을 쓴 여인이 웃음을 머금고 다가온다.', {});
       await say('scheherazade', '하루에 한 권씩, 다섯 권을 쉬지 않고 읽는 분은 오랜만에 보는군요. 저는 셰헤라자드. 천 하루 밤 동안 이야기를 하며 살아남은 사람이랍니다.');
-      await say('scheherazade', '책 속의 이야기는 다 읽으셨지요? 그럼 아직 아무 책에도 쓰이지 않은 이야기는 어떠세요.\f저는 프랑크 사람들의 말도, 아랍과 페르시아의 말도, 바다 건너 아프리카의 말도 압니다. 당신의 배가 가는 곳마다 제가 말을 옮겨 드리지요.');
+      await say('scheherazade', '책 속의 이야기는 다 읽으셨지요? 그럼 아직 아무 책에도 쓰이지 않은 이야기는 어떠세요.\f저는 프랑크 사람들의 말도, 아랍과 페르시아의 말도, 바다 건너 아프리카의 말도, 인도와 중국의 말도 압니다. 당신의 배가 가는 곳마다 제가 말을 옮겨 드리지요.');
       await UI.say('……그 대신, 당신의 항해를 끝까지 이야기로 엮게 해 주세요. 끝나지 않는 이야기가 제일 좋거든요.', who('scheherazade'));
       if (await offer(['scheherazade'], c, '셰헤라자드가 부하가 되겠다고 한다.')) { H.done = 1; await say('scheherazade', '그럼 첫날 밤의 이야기를 시작할까요. 옛날 옛적, 바다를 건너온 한 제독이 있었는데……'); }
       else await say('scheherazade', '이야기는 기다림에서 더 맛있어지는 법이지요. 또 이 서가에서 뵈어요.');

diff --git a/tests/legends_smoke.js b/tests/legends_smoke.js
@@ -148,7 +148,7 @@ function ok(v, msg) { if (!v) throw new Error(msg); console.log('  ✓ ' + msg);
     }
     ok(r.mates.some(m => m.indexOf('scheherazade') === 0), '이슬람 도서관에서 책 다섯 권을 읽으니 셰헤라자드가 부하가 되었다' + (lc ? ' (' + lc.name + ' — 서가에서 실제로 읽음)' : ' (읽을 책이 모자라 셈만)'));
     const lgs = await page.evaluate(() => G.MATE.scheherazade.lg);
-    ok([0, 1, 2, 3, 4, 5, 6, 10].every(k => lgs[k] === 3), '셰헤라자드는 유럽 말·아랍어·페르시아어·아프리카 말에 능숙');
+    ok([0, 1, 2, 3, 4, 7, 8, 9, 12, 13, 14].every(k => lgs[k] >= 2 && lgs[k] <= 3) && [5, 6, 10].every(k => lgs[k] === 3), '셰헤라자드는 유럽·아시아의 말을 모두 2~3단계, 아랍어·페르시아어·아프리카 말은 능숙');
 
     // ---------------------------------------------------------------- 알라딘·알리바바
     console.log('알라딘 · 알리바바');

diff --git a/js/systems/cabins.js b/js/systems/cabins.js
@@ -179,7 +179,10 @@
         who.lgd = who.lgd || {};
         who.lgd[li] = (who.lgd[li] || 0) + gain[k] * ((who.id && G.MATE[who.id] && G.MATE[who.id].lgk) || 1);   // lgk: 말을 빨리 배우는 사람 (이야기의 자코모 ×2)
         var lv = levelFor(who.lgd[li]);
-        if (lv > cur) { set(li, lv); out.push({ icon: 'scroll', text: name + U.j(name, '이/가').slice(name.length) + ' 한배에서 지내며 ' + G.LANGS[li] + '를 익혔다 (' + G.LANG_LV[lv] + ').' }); }
+        if (lv > cur) {
+          var fw = who.id && G.Tale && G.Tale.firstWords ? G.Tale.firstWords(who, li) : null;   // 말을 몰랐던 인어공주가 처음 말을 하는 날
+          set(li, lv); out.push(fw || { icon: 'scroll', text: name + U.j(name, '이/가').slice(name.length) + ' 한배에서 지내며 ' + G.LANGS[li] + '를 익혔다 (' + G.LANG_LV[lv] + ').' });
+        }
       });
     }
     aboard.forEach(function (m) {

diff --git a/css/style.css b/css/style.css
@@ -131,6 +131,9 @@ body { font-family: var(--serif); color: var(--cream); -webkit-font-smoothing: a
 .dlg .pframe { width: 150px; flex: 0 0 150px; padding: 8px; }
 .dlg .pframe canvas { position: static; display: block; width: 134px; height: 134px; }
 .dlg .body { flex: 1; padding: 24px 34px 22px 30px; position: relative; font-size: 22px; line-height: 1.62; }
+/* 말을 모르는 인어공주의 몸짓 (G.Tale.mime) */
+.dlg .body .mime { display: block; font-style: italic; }
+.dlg .body .mime-gist { display: block; margin-top: 6px; font-size: .78em; opacity: .62; }
 .dlg .name { position: absolute; left: 150px; top: -20px; padding: 5px 20px; font-size: 17px; color: var(--cream); letter-spacing: .06em; z-index: 2; }
 .dlg .more { position: absolute; right: 18px; bottom: 10px; font-size: 16px; color: var(--ink-soft); animation: blink 1.2s infinite; }
 @keyframes blink { 50% { opacity: .2; } }

diff --git a/js/data/base.js b/js/data/base.js
@@ -456,7 +456,8 @@
     regionFolk: { ratio: 0.8, every: 1, extraLang: 0.15, maxPerFill: 400 },
     // 부하와 이야기 (matetalk.js): 하루 한 번 이야기(충성 chatLoyal·호감 chatAff), 한잔(값 drinkCost × 도시 크기, 충성 drinkLoyal·호감 drinkAff).
     // 여성 부하는 호감이 wedAff 이상이고 약속 반지가 있으면 청혼할 수 있다. 마녀의 점괘는 fortuneDays일에 한 번
-    mateTalk: { chatLoyal: 1, chatAff: 2, drinkCost: 8, drinkLoyal: 2, drinkAff: 3, wedAff: 90, fortuneDays: 30 }
+    //   이성 부하에게 선물: 충성 + max(giftLoyalMin, 선물 값(♥) × giftLoyal) — 같은 성이면 +2
+    mateTalk: { chatLoyal: 1, chatAff: 2, drinkCost: 8, drinkLoyal: 2, drinkAff: 3, wedAff: 90, fortuneDays: 30, giftLoyal: 0.6, giftLoyalMin: 3 }
   };
 
   // 계절풍 바다 (바람 모델 R.wind와 안내 G.Monsoon이 함께 쓴다)

diff --git a/js/systems/banter.js b/js/systems/banter.js
@@ -97,7 +97,7 @@
   function people() {
     var s = S(), out = [];
     (s.mates || []).forEach(function (m) {
-      var d = G.MATE[m.id]; if (!d || d.mute) return;     // 말을 못 하는 사람(인어공주)은 수다에 끼지 않는다
+      var d = G.MATE[m.id]; if (!d || (d.mute && (!G.Tale || !G.Tale.mute || G.Tale.mute()))) return;     // 말을 못 하는 사람(인어공주)은 말을 익히기 전까지 수다에 끼지 않는다
       out.push({ id: m.id, name: d.name, short: d.short || String(d.name).split(' ')[0], tone: BT.toneOf(m.id), sp: function () { return speakerOf(m.id); } });
     });
     B().fill.forEach(function (f) {
